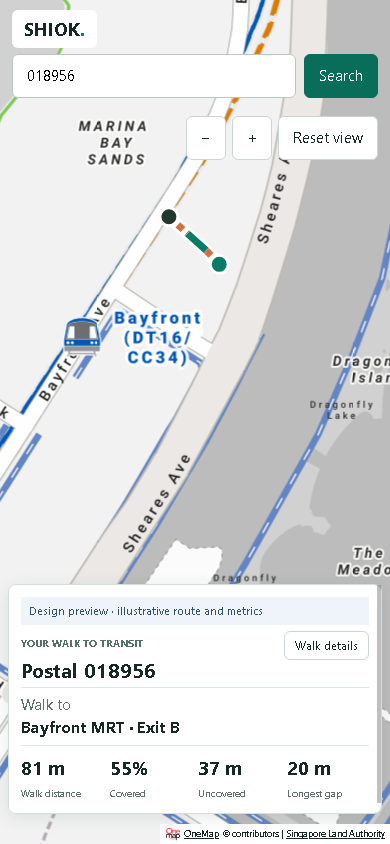
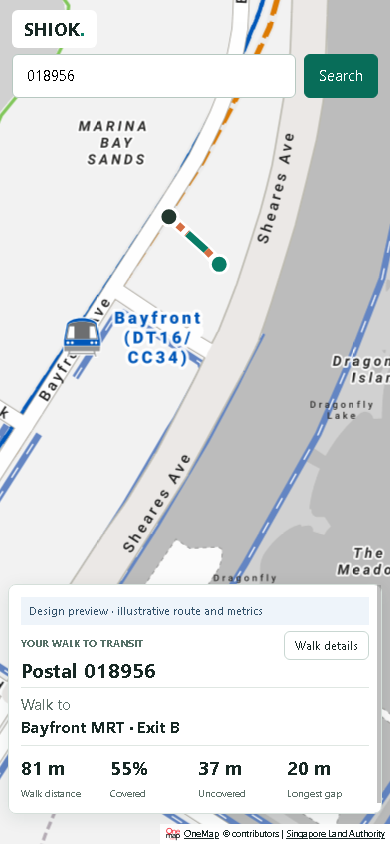
feat: replace prototype map toolbar with gestures

Changed region(s): [[0.7077, 0.1232, 0.9846, 0.2156], [0.4615, 0.1232, 0.5846, 0.1848]]

diff --git a/qa/prototypes/shelter-walk.html b/qa/prototypes/shelter-walk.html
@@ -6,14 +6,47 @@
 @media(max-width:700px){.toggle{float:right;margin:0 0 4px 8px}.panel{max-height:260px}.panel h1{margin:4px 0}.destination{margin:8px 0;padding:6px 0}.metrics{margin:8px 0}.maptools{top:72px}}
 header{position:absolute;top:0;left:0;right:0;z-index:3;background:transparent;border:0;height:76px;pointer-events:none}header strong{background:white;border-radius:6px;padding:6px 12px;font-size:21px;pointer-events:auto}form{position:absolute;left:50%;transform:translateX(-50%);width:min(440px,calc(100% - 340px));max-width:440px;pointer-events:auto}main{height:100dvh;display:block;position:relative}.map{height:100%}.panel{position:absolute;left:16px;top:92px;bottom:auto;width:270px;max-height:calc(100dvh - 132px);border:1px solid #d5dfda;border-radius:8px;padding:16px}.panel h1{font-size:20px}.metrics{gap:12px;margin:16px 0}.metrics strong{font-size:22px}.destination{padding:10px 0;margin:14px 0}.destination strong{font-size:16px}h2{margin:16px 0 8px;font-size:15px}.gap{padding:8px 10px}.actions{margin-top:16px}details{margin-top:16px;padding-top:12px}.prototype{font-size:11px;padding:6px 8px;margin-bottom:12px}.maptools{top:92px}.attribution{display:flex;align-items:center;gap:3px;font-size:10px;padding:2px 5px}.mapnote[hidden]{display:none}
 @media(max-width:700px){header{height:108px;padding:10px 12px;display:block}header strong{display:inline-block;font-size:18px}form{top:54px;width:calc(100% - 24px);max-width:440px}.panel{top:auto;bottom:30px;left:8px;right:8px;width:auto;max-height:230px;padding:12px}.panel.expanded{max-height:65%}.metrics{grid-template-columns:repeat(4,1fr);gap:6px;margin:8px 0}.metrics strong{font-size:19px}.destination{margin:6px 0;padding:6px 0}.prototype{margin-bottom:6px}.maptools{top:116px}.attribution{font-size:9px}.attribution img{width:16px;height:16px}}
+canvas{touch-action:none;cursor:grab}canvas:active{cursor:grabbing}canvas:focus-visible{outline:3px solid #147ca3;outline-offset:-3px}.sr-only{position:absolute;width:1px;height:1px;padding:0;margin:-1px;overflow:hidden;clip:rect(0,0,0,0);white-space:nowrap;border:0}
 </style>
 <header><strong>SHIOK<span style="color:#0b8068">.</span></strong><form id="search"><input aria-label="Postal code" inputmode="numeric" pattern="[0-9]{6}" maxlength="6" value="018956" required><button class="primary">Search</button></form></header>
-<main><aside class="panel" id="panel"><div class="prototype">Design preview · illustrative route and metrics</div><button class="toggle" id="expand" aria-expanded="false">Walk details</button><span class="eyebrow">Your walk to transit</span><h1 id="postal">Postal 018956</h1><div class="destination"><span class="muted">Walk to</span><strong>Bayfront MRT · Exit B</strong></div><div class="metrics"><div><strong>81 m</strong><span>Walk distance</span></div><div><strong>55%</strong><span>Covered</span></div><div><strong>37 m</strong><span>Uncovered</span></div><div><strong>20 m</strong><span>Longest gap</span></div></div><div class="more"><div class="coverage"><div></div></div><div class="legend"><span>Covered walkway</span><span>Uncovered</span></div><h2>Uncovered stretches</h2><button class="gap" data-gap="1" aria-pressed="false"><span>Near the entrance<small>20 m uncovered</small></span><span aria-hidden="true">↗</span></button><button class="gap" data-gap="2" aria-pressed="false"><span>Approaching the exit<small>17 m uncovered</small></span><span aria-hidden="true">↗</span></button><div class="actions"><button id="compare">Compare a place</button><button id="report">Report a problem</button></div><details><summary>Data and methodology</summary><p>This prototype uses an illustrative route. It does not provide navigation or recalculate published scores. Source dates and the existing score will appear here in the application.</p></details><p id="notice" role="status"></p></div></aside><section class="map" aria-label="Illustrative walk map"><canvas id="map"></canvas><div class="maptools"><button id="minus" title="Zoom out" aria-label="Zoom out">−</button><button id="plus" title="Zoom in" aria-label="Zoom in">+</button><button id="fit">Reset view</button></div><div class="mapnote" hidden id="mapstatus" role="status">Loading basemap…</div><div class="attribution"><img src="https://www.onemap.gov.sg/web-assets/images/logo/om_logo.png" width="20" height="20" alt="OneMap"> <a href="https://www.onemap.gov.sg/">OneMap</a> © contributors | <a href="https://www.sla.gov.sg/">Singapore Land Authority</a></div></section></main>
+<main><aside class="panel" id="panel"><div class="prototype">Design preview · illustrative route and metrics</div><button class="toggle" id="expand" aria-expanded="false">Walk details</button><span class="eyebrow">Your walk to transit</span><h1 id="postal">Postal 018956</h1><div class="destination"><span class="muted">Walk to</span><strong>Bayfront MRT · Exit B</strong></div><div class="metrics"><div><strong>81 m</strong><span>Walk distance</span></div><div><strong>55%</strong><span>Covered</span></div><div><strong>37 m</strong><span>Uncovered</span></div><div><strong>20 m</strong><span>Longest gap</span></div></div><div class="more"><div class="coverage"><div></div></div><div class="legend"><span>Covered walkway</span><span>Uncovered</span></div><h2>Uncovered stretches</h2><button class="gap" data-gap="1" aria-pressed="false"><span>Near the entrance<small>20 m uncovered</small></span><span aria-hidden="true">↗</span></button><button class="gap" data-gap="2" aria-pressed="false"><span>Approaching the exit<small>17 m uncovered</small></span><span aria-hidden="true">↗</span></button><div class="actions"><button id="compare">Compare a place</button><button id="report">Report a problem</button></div><details><summary>Data and methodology</summary><p>This prototype uses an illustrative route. It does not provide navigation or recalculate published scores. Source dates and the existing score will appear here in the application.</p></details><p id="notice" role="status"></p></div></aside><section class="map" aria-label="Illustrative walk map"><canvas id="map" tabindex="0" aria-label="Illustrative walk map" aria-describedby="map-help"></canvas><span id="map-help" class="sr-only">Drag to pan. Scroll or pinch to zoom. With the map focused, use arrow keys to pan, plus and minus to zoom, and Home to return to the walk.</span><div class="mapnote" hidden id="mapstatus" role="status">Loading basemap…</div><div class="attribution"><img src="https://www.onemap.gov.sg/web-assets/images/logo/om_logo.png" width="20" height="20" alt="OneMap"> <a href="https://www.onemap.gov.sg/">OneMap</a> © contributors | <a href="https://www.sla.gov.sg/">Singapore Land Authority</a></div></section></main>
 <dialog id="comparison"><h2>Compare a place</h2><label for="other">Another postal code</label><input id="other" inputmode="numeric" maxlength="6" placeholder="6-digit postal"><p class="muted">Comparison will show walk distance, shelter and gaps side by side. This preview does not look up additional records.</p><footer><button data-close>Close</button></footer></dialog>
 <dialog id="feedback"><h2>Report a problem</h2><label><input type="radio" name="kind" value="correction" checked style="width:auto"> The map is incorrect</label><label><input type="radio" name="kind" value="suggestion" style="width:auto"> This stretch needs shelter</label><label for="note">What should we know?</label><textarea id="note" maxlength="1000"></textarea><p class="muted">Preview only. Nothing is submitted. In the service, reports will be private until reviewed. Please leave out personal details.</p><footer><button data-close>Close</button></footer></dialog>
 <script>
-const $=s=>document.querySelector(s), canvas=$('#map'),ctx=canvas.getContext('2d');let zoom=17,gap=0;const cache=new Map();
-function project(lon,lat){const n=2**zoom;return [(lon+180)/360*n,(1-Math.asinh(Math.tan(lat*Math.PI/180))/Math.PI)/2*n]}
-function draw(){const rect=canvas.getBoundingClientRect(),w=rect.width,h=rect.height,dpr=devicePixelRatio||1;canvas.width=w*dpr;canvas.height=h*dpr;ctx.scale(dpr,dpr);ctx.fillStyle='#e1e9e8';ctx.fillRect(0,0,w,h);const c=project(103.8603,1.2829),cy=innerWidth<=700?h*.29:h*.5,sz=256;let loaded=0,total=0;for(let x=Math.floor(c[0]-w/sz/2);x<=Math.ceil(c[0]+w/sz/2);x++)for(let y=Math.floor(c[1]-cy/sz);y<=Math.ceil(c[1]+(h-cy)/sz);y++){total++;const key=zoom+'/'+x+'/'+y;let im=cache.get(key);if(!im){im=new Image();cache.set(key,im);im.onload=draw;im.onerror=()=>{$('#mapstatus').textContent='Basemap partly unavailable · preview route retained'};im.src='https://www.onemap.gov.sg/maps/tiles/Grey_HD/'+key+'.png'}if(im.complete&&im.naturalWidth){loaded++;ctx.drawImage(im,(x-c[0])*sz+w/2,(y-c[1])*sz+cy,sz,sz)}}const pts=[[103.86002,1.2832],[103.86022,1.28302],[103.86042,1.28284],[103.86056,1.28269]].map(p=>{const a=project(...p);return [(a[0]-c[0])*sz+w/2,(a[1]-c[1])*sz+cy]});for(let i=0;i<3;i++){ctx.beginPath();ctx.moveTo(...pts[i]);ctx.lineTo(...pts[i+1]);ctx.strokeStyle='white';ctx.lineWidth=12;ctx.stroke();ctx.strokeStyle=i===1?'#087c66':'#d56e43';ctx.lineWidth=7;ctx.setLineDash(i===1?[]:[7,5]);ctx.stroke();ctx.setLineDash([])}pts.filter((_,i)=>i===0||i===3).forEach((p,i)=>{ctx.beginPath();ctx.arc(...p,9,0,7);ctx.fillStyle=i?'#087c66':'#22372e';ctx.fill();ctx.strokeStyle='white';ctx.lineWidth=3;ctx.stroke()});if(gap){const p=pts[gap===1?0:2];ctx.beginPath();ctx.arc(...p,20,0,7);ctx.strokeStyle='#c85526';ctx.lineWidth=3;ctx.stroke()}if(loaded===total)$('#mapstatus').textContent='Illustrative walk · basemap loaded'}
-new ResizeObserver(draw).observe(canvas);$('#plus').onclick=()=>{zoom=Math.min(19,zoom+1);draw()};$('#minus').onclick=()=>{zoom=Math.max(15,zoom-1);draw()};$('#fit').onclick=()=>{zoom=17;gap=0;draw()};$('#expand').onclick=()=>{const open=$('#panel').classList.toggle('expanded');$('#expand').textContent=open?'Show map':'Walk details';$('#expand').setAttribute('aria-expanded',open)};document.querySelectorAll('[data-gap]').forEach(b=>b.onclick=()=>{gap=Number(b.dataset.gap);document.querySelectorAll('[data-gap]').forEach(a=>a.setAttribute('aria-pressed',a===b));$('#panel').classList.remove('expanded');$('#expand').setAttribute('aria-expanded','false');$('#expand').textContent='Walk details';draw()});$('#search input').oninput=e=>e.target.value=e.target.value.replace(/\D/g,'').slice(0,6);$('#search').onsubmit=e=>{e.preventDefault();$('#notice').textContent='This design preview uses one illustrative postal. Live search is unchanged.';$('#panel').classList.add('expanded')};$('#compare').onclick=()=>$('#comparison').showModal();$('#report').onclick=()=>$('#feedback').showModal();document.querySelectorAll('[data-close]').forEach(b=>b.onclick=()=>b.closest('dialog').close());
+const $=s=>document.querySelector(s), canvas=$('#map'),ctx=canvas.getContext('2d');let zoom=17,gap=0,panX=0,panY=0;const cache=new Map();
+function project(lon,lat){const n=2**Math.floor(zoom);return [(lon+180)/360*n,(1-Math.asinh(Math.tan(lat*Math.PI/180))/Math.PI)/2*n]}
+function draw(){const rect=canvas.getBoundingClientRect(),w=rect.width,h=rect.height,dpr=devicePixelRatio||1;canvas.width=w*dpr;canvas.height=h*dpr;ctx.scale(dpr,dpr);ctx.fillStyle='#e1e9e8';ctx.fillRect(0,0,w,h);const c=project(103.8603,1.2829),cy=(innerWidth<=700?h*.29:h*.5)+panY,cx=w/2+panX,sz=256*2**(zoom-Math.floor(zoom));let loaded=0,total=0;for(let x=Math.floor(c[0]-cx/sz);x<=Math.ceil(c[0]+(w-cx)/sz);x++)for(let y=Math.floor(c[1]-cy/sz);y<=Math.ceil(c[1]+(h-cy)/sz);y++){total++;const key=Math.floor(zoom)+'/'+x+'/'+y;let im=cache.get(key);if(!im){im=new Image();cache.set(key,im);im.onload=draw;im.onerror=()=>{$('#mapstatus').textContent='Basemap partly unavailable · preview route retained'};im.src='https://www.onemap.gov.sg/maps/tiles/Grey_HD/'+key+'.png'}if(im.complete&&im.naturalWidth){loaded++;ctx.drawImage(im,(x-c[0])*sz+cx,(y-c[1])*sz+cy,sz,sz)}}const pts=[[103.86002,1.2832],[103.86022,1.28302],[103.86042,1.28284],[103.86056,1.28269]].map(p=>{const a=project(...p);return [(a[0]-c[0])*sz+cx,(a[1]-c[1])*sz+cy]});for(let i=0;i<3;i++){ctx.beginPath();ctx.moveTo(...pts[i]);ctx.lineTo(...pts[i+1]);ctx.strokeStyle='white';ctx.lineWidth=12;ctx.stroke();ctx.strokeStyle=i===1?'#087c66':'#d56e43';ctx.lineWidth=7;ctx.setLineDash(i===1?[]:[7,5]);ctx.stroke();ctx.setLineDash([])}pts.filter((_,i)=>i===0||i===3).forEach((p,i)=>{ctx.beginPath();ctx.arc(...p,9,0,7);ctx.fillStyle=i?'#087c66':'#22372e';ctx.fill();ctx.strokeStyle='white';ctx.lineWidth=3;ctx.stroke()});if(gap){const p=pts[gap===1?0:2];ctx.beginPath();ctx.arc(...p,20,0,7);ctx.strokeStyle='#c85526';ctx.lineWidth=3;ctx.stroke()}if(loaded===total)$('#mapstatus').textContent='Illustrative walk · basemap loaded'}
+new ResizeObserver(draw).observe(canvas);$('#expand').onclick=()=>{const open=$('#panel').classList.toggle('expanded');$('#expand').textContent=open?'Show map':'Walk details';$('#expand').setAttribute('aria-expanded',open)};document.querySelectorAll('[data-gap]').forEach(b=>b.onclick=()=>{gap=Number(b.dataset.gap);zoom=17;panX=0;panY=0;document.querySelectorAll('[data-gap]').forEach(a=>a.setAttribute('aria-pressed',a===b));$('#panel').classList.remove('expanded');$('#expand').setAttribute('aria-expanded','false');$('#expand').textContent='Walk details';draw()});$('#search input').oninput=e=>e.target.value=e.target.value.replace(/\D/g,'').slice(0,6);$('#search').onsubmit=e=>{e.preventDefault();$('#notice').textContent='This design preview uses one illustrative postal. Live search is unchanged.';$('#panel').classList.add('expanded')};$('#compare').onclick=()=>$('#comparison').showModal();$('#report').onclick=()=>$('#feedback').showModal();document.querySelectorAll('[data-close]').forEach(b=>b.onclick=()=>b.closest('dialog').close());
+
+let drawFrame=0;
+function redraw(){if(!drawFrame)drawFrame=requestAnimationFrame(()=>{drawFrame=0;draw()})}
+function zoomAt(next,x,y){
+ const rect=canvas.getBoundingClientRect(),baseX=rect.width/2,baseY=innerWidth<=700?rect.height*.29:rect.height*.5;
+ next=Math.max(15,Math.min(19,next));const scale=2**(next-zoom);
+ panX=x-baseX-(x-baseX-panX)*scale;panY=y-baseY-(y-baseY-panY)*scale;zoom=next;redraw();
+}
+function localPoint(e){const r=canvas.getBoundingClientRect();return {x:e.clientX-r.left,y:e.clientY-r.top}}
+canvas.addEventListener('wheel',e=>{e.preventDefault();const p=localPoint(e);const delta=e.deltaY*(e.deltaMode===1?16:e.deltaMode===2?canvas.clientHeight:1);zoomAt(zoom-Math.max(-.5,Math.min(.5,delta*.003)),p.x,p.y)},{passive:false});
+canvas.addEventListener('dblclick',e=>{const p=localPoint(e);zoomAt(zoom+1,p.x,p.y)});
+const pointers=new Map();
+canvas.addEventListener('pointerdown',e=>{if(e.pointerType==='mouse'&&e.button!==0)return;canvas.focus({preventScroll:true});canvas.setPointerCapture(e.pointerId);pointers.set(e.pointerId,localPoint(e))});
+canvas.addEventListener('pointermove',e=>{
+ if(!pointers.has(e.pointerId))return;
+ const before=[...pointers.values()],previous=pointers.get(e.pointerId),point=localPoint(e);pointers.set(e.pointerId,point);
+ const after=[...pointers.values()];
+ if(before.length===1){panX+=point.x-previous.x;panY+=point.y-previous.y}
+ else if(before.length===2){
+  const mid=p=>({x:(p[0].x+p[1].x)/2,y:(p[0].y+p[1].y)/2}),distance=p=>Math.hypot(p[0].x-p[1].x,p[0].y-p[1].y);
+  const first=mid(before),last=mid(after),d=distance(before),next=distance(after);
+  if(d>0&&next>0)zoomAt(zoom+Math.log2(next/d),first.x,first.y);
+  panX+=last.x-first.x;panY+=last.y-first.y;
+ }redraw();
+});
+for(const event of ['pointerup','pointercancel','lostpointercapture'])canvas.addEventListener(event,e=>pointers.delete(e.pointerId));
+canvas.addEventListener('keydown',e=>{
+ const r=canvas.getBoundingClientRect(),x=r.width/2,y=innerWidth<=700?r.height*.29:r.height*.5;
+ switch(e.key){case '+':case '=':zoomAt(zoom+.5,x,y);break;case '-':zoomAt(zoom-.5,x,y);break;
+ case 'ArrowLeft':panX+=60;break;case 'ArrowRight':panX-=60;break;case 'ArrowUp':panY+=60;break;case 'ArrowDown':panY-=60;break;
+ case 'Home':zoom=17;panX=0;panY=0;break;default:return}e.preventDefault();redraw();
+});
 </script></html>

diff --git a/decisions.md b/decisions.md
@@ -1,3 +1,6 @@
+2026-09-06 - Gesture-first map prototype:
+Owner requested removal of visible zoom and reset buttons. The prototype now supports pointer drag, cursor-anchored wheel zoom, two-finger pinch and keyboard navigation instead. A focusable map with screen-reader instructions preserves keyboard access; Home resets the view. This removes toolbar clutter without assuming every user has a touchscreen or scroll wheel. Production is unchanged.
+
 2026-09-06 - Map-first prototype layout feedback:
 Owner requested a centered search bar, substantially smaller left panel, no tagline or routine successful-map-load label, and the map as the primary visual surface. The prototype now uses a full-screen map with a 270px floating desktop panel and compact mobile sheet. Removed the empty nearby-transit-options section; actual alternative destinations remain in the agreed product scope. OneMap logo and attribution remain visibly unobtrusive because https://www.onemap.gov.sg/docs/maps/ explicitly requires both. Changes apply to the prototype only; no production deployment or artifact changes.
 

diff --git a/.agents/STATE.md b/.agents/STATE.md
@@ -12,6 +12,8 @@ Next: owner layout review, then implement core walk/map reliability using real d
 Prototype uses explicitly illustrative geometry/metrics; dialogs do not submit reports.
 Latest owner feedback: map dominates; centered search; smaller floating panel;
 no tagline or successful-load badge; no empty transit-options section.
+Map controls: no visible zoom/reset buttons; drag, wheel, pinch and keyboard
+navigation supported in the prototype. Home resets the focused map view.
 Retain unobtrusive mandatory OneMap logo/attribution per official map guidance.
 Owner agreed: postal-to-transit first; bounded transit choices; no weather; private
 owner-moderated reports; $0 maintained service. Feedback infrastructure unresolved.
